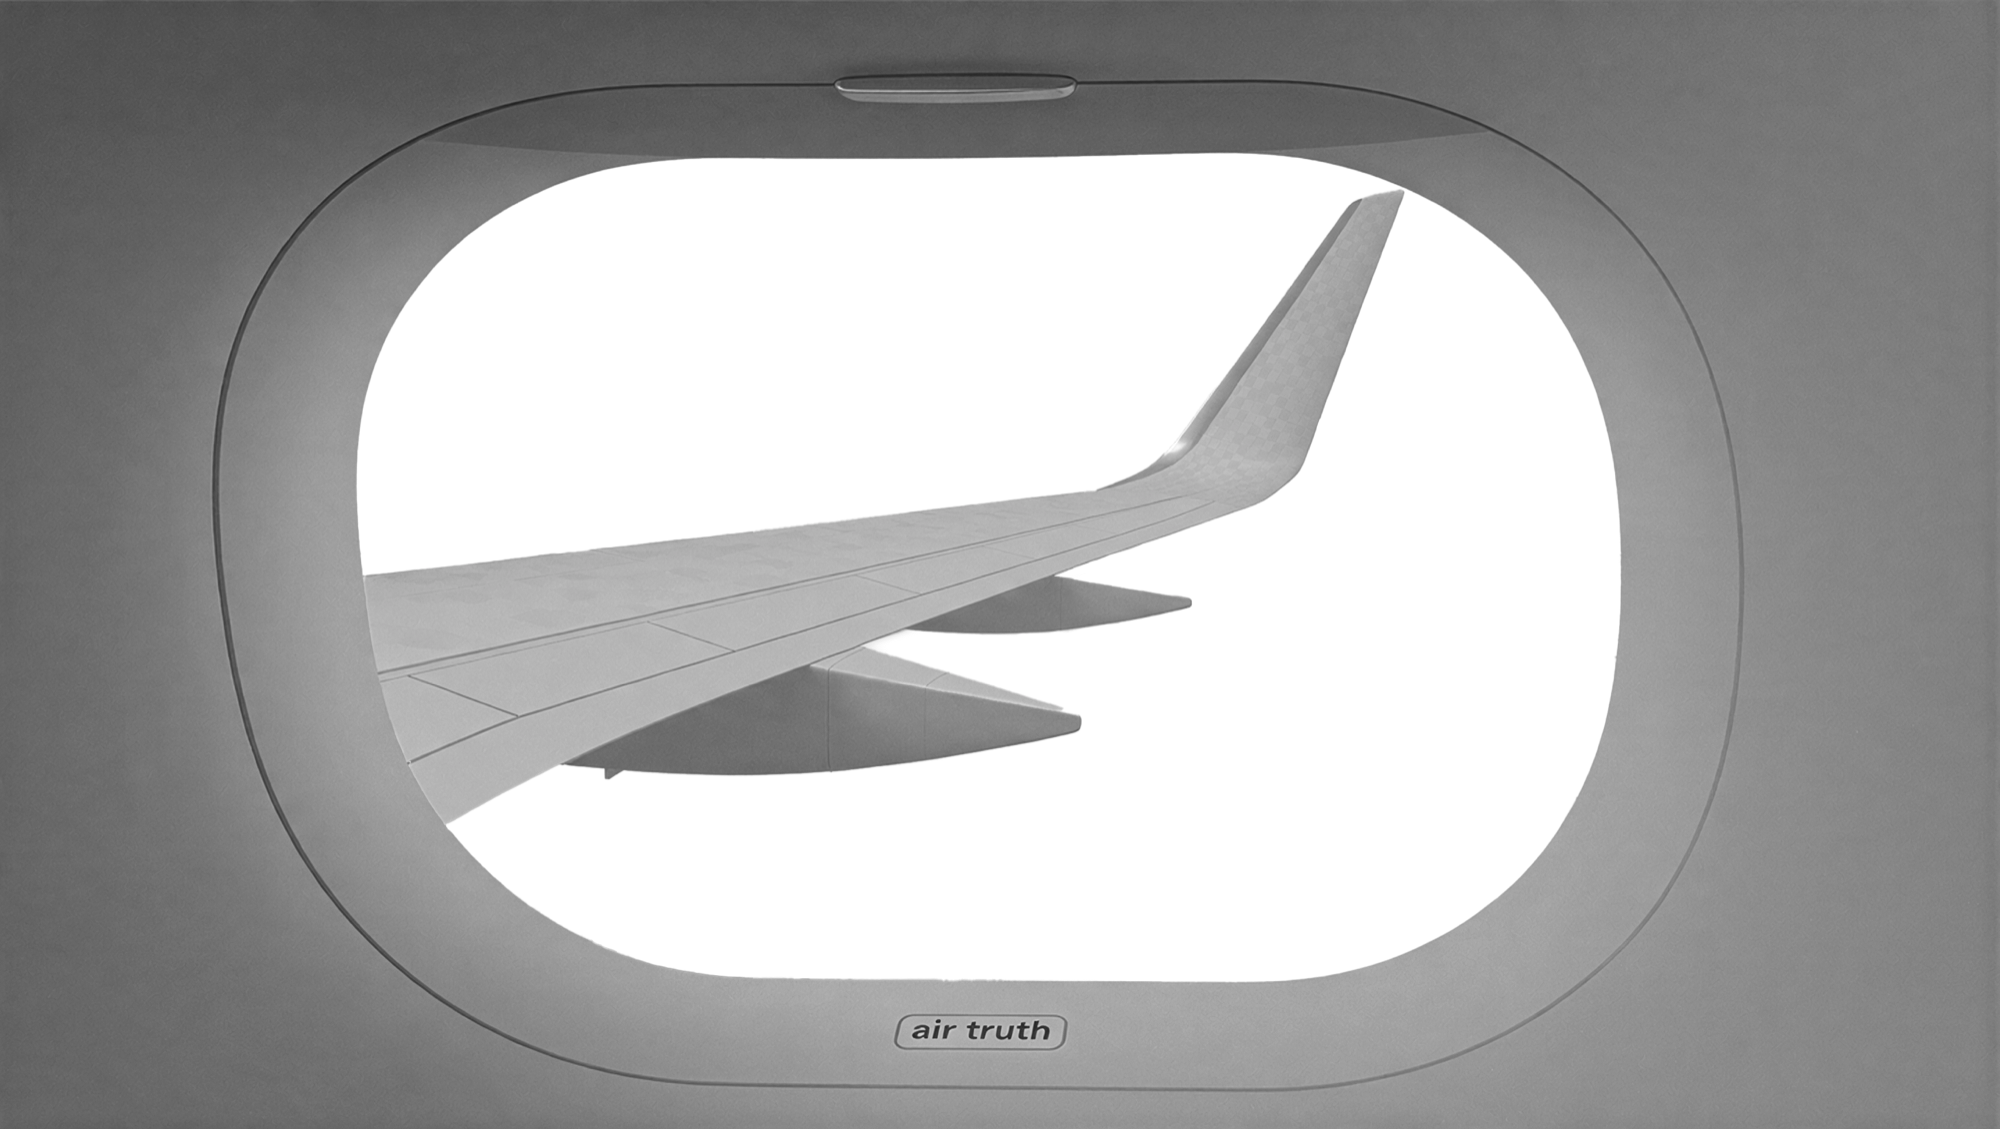
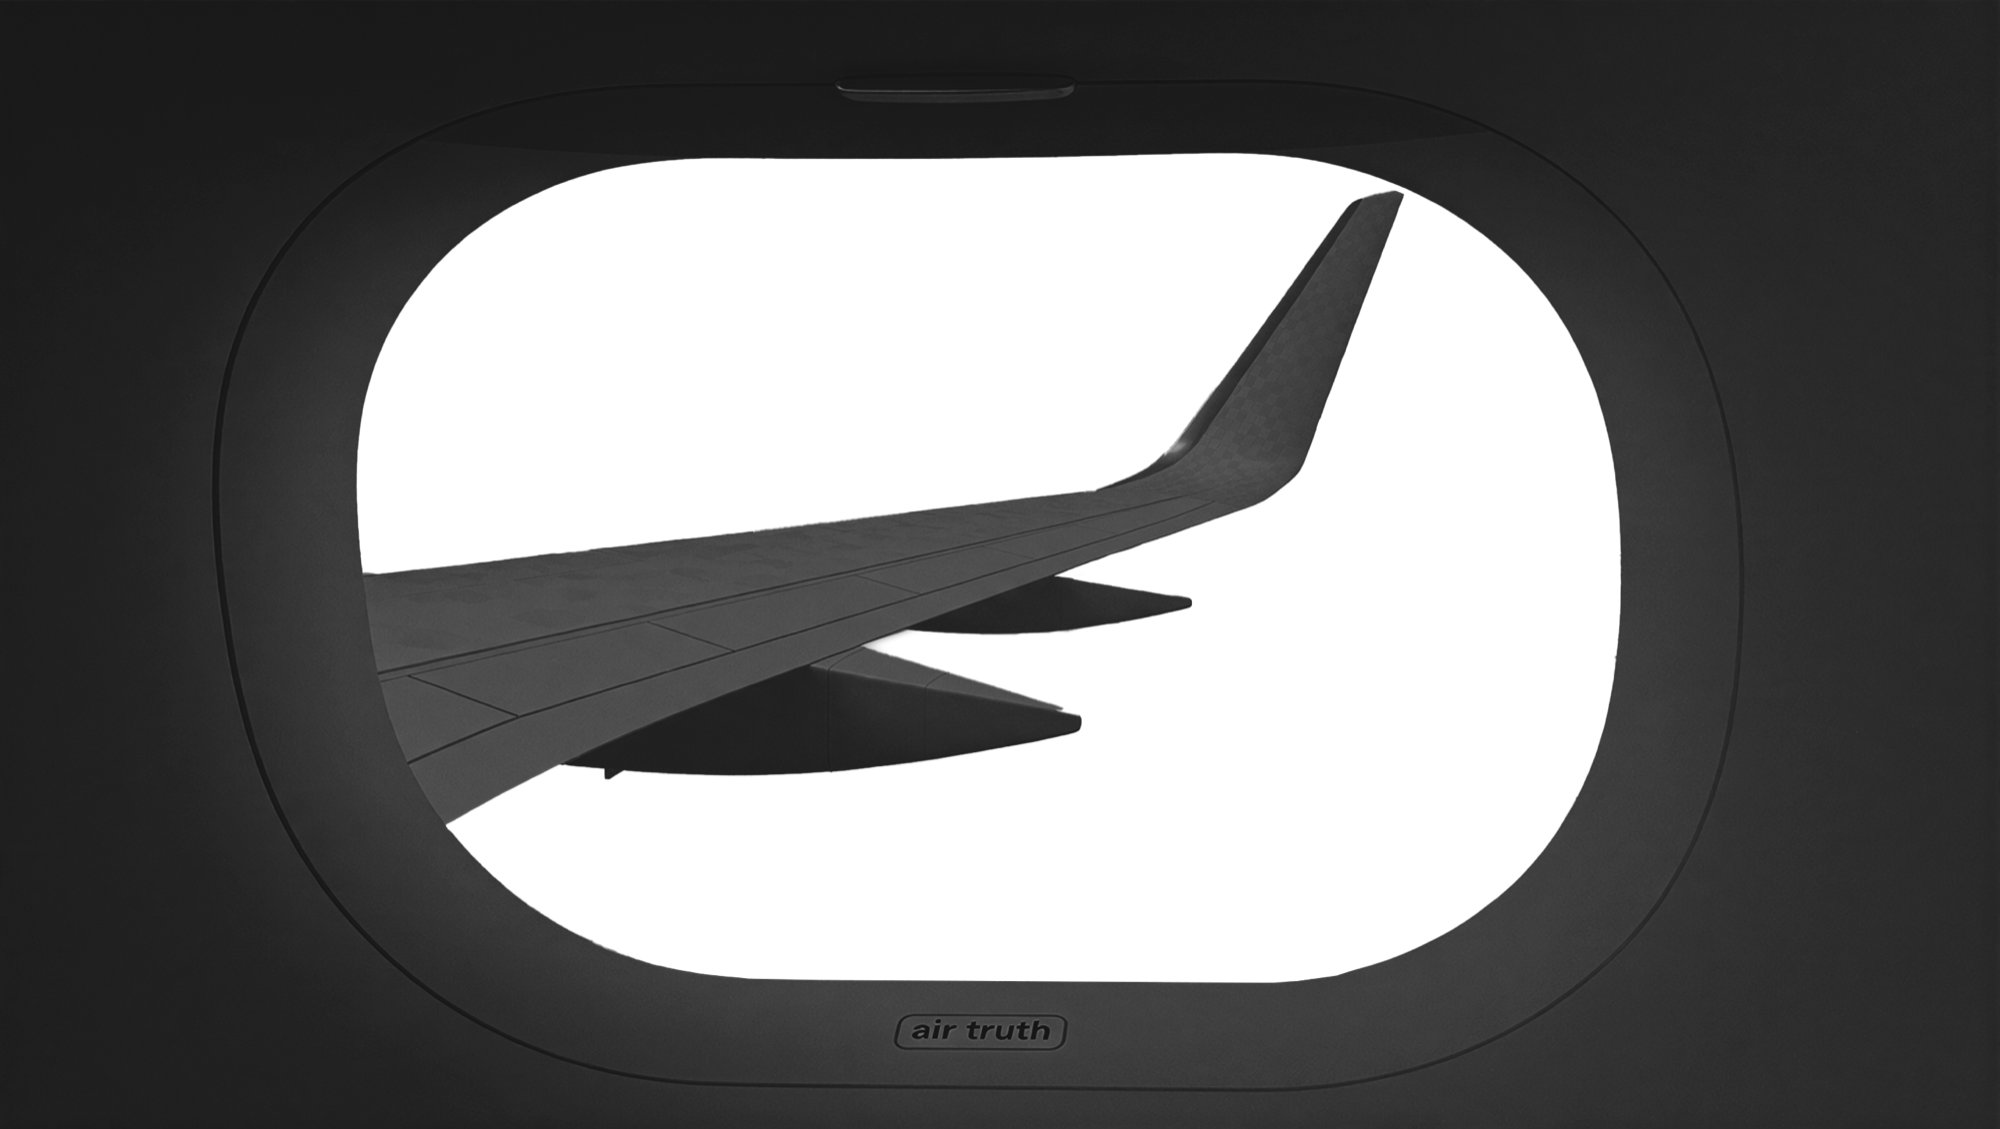
radio: fly at night, and land on a random track
The cabin image is swapped for the night render and the vector scene
recoloured to match. Its opening measures identical to the old one to four
decimals, so the geometry constants stand. Re-encoded with per-line optimal
filters: 2274 KB source down to 743 KB, byte-identical.

Straight recolouring did not hold up. The high wisps were white at .55 over
a pale sky — near invisible by day, but the same values over navy read as
solid blue slabs, so they drop to .32 of a dimmer blue. The cloud deck was
lit for daylight and glowed like water at night; it comes down to a moonlit
blue-grey that still sits above the sky value, keeping the day version's
tonal order. Stars are painted into #view's own background rather than
added as a layer: static, so one rasterisation and never a frame. Measured
after: 39.9 MB of textures, unchanged.

Track choice moves into the iframe URL. start_track is read before anything
loads, so a random pick is free, where skipping after READY re-cued the deck
and delayed the first note. The playlist length is not known up front, so
the widget is asked once playback is under way and the count kept for next
time — it turns out to be 239, against a standing guess of 10.

diff --git a/HTMLs/odile_radio.html b/HTMLs/odile_radio.html
@@ -8,7 +8,7 @@
   *, *::before, *::after { margin:0; padding:0; box-sizing:border-box; }
   html, body { width:100%; height:100%; overflow:hidden; }
   body {
-    background:#6b6b6d; cursor:none;
+    background:#0b0e14; cursor:none;
     font-family:-apple-system,'Helvetica Neue',sans-serif; font-weight:300; font-size:12.5px;
     animation:fadeIn 1.2s ease both;
   }
@@ -40,8 +40,21 @@
   #view{
     position:absolute;inset:0;
     overflow:hidden;
-    background:linear-gradient(180deg,
-      #fcfcfd 0%, #f3f3f7 30%, #e8e8ef 54%, #dcdce5 76%, #d0d0db 100%);
+    /* night: a handful of stars painted straight into the layer — they are
+       static, so they cost one rasterisation and never a frame */
+    background:
+      radial-gradient(1.3px 1.3px at 11% 8%,  rgba(255,255,255,.80), rgba(255,255,255,0) 100%),
+      radial-gradient(1px 1px     at 24% 19%, rgba(255,255,255,.45), rgba(255,255,255,0) 100%),
+      radial-gradient(1.1px 1.1px at 37% 6%,  rgba(255,255,255,.62), rgba(255,255,255,0) 100%),
+      radial-gradient(1px 1px     at 46% 24%, rgba(255,255,255,.34), rgba(255,255,255,0) 100%),
+      radial-gradient(1.4px 1.4px at 58% 12%, rgba(255,255,255,.72), rgba(255,255,255,0) 100%),
+      radial-gradient(1px 1px     at 67% 31%, rgba(255,255,255,.30), rgba(255,255,255,0) 100%),
+      radial-gradient(1.2px 1.2px at 78% 9%,  rgba(255,255,255,.58), rgba(255,255,255,0) 100%),
+      radial-gradient(1px 1px     at 88% 22%, rgba(255,255,255,.40), rgba(255,255,255,0) 100%),
+      radial-gradient(1.1px 1.1px at 16% 33%, rgba(255,255,255,.36), rgba(255,255,255,0) 100%),
+      radial-gradient(1px 1px     at 93% 38%, rgba(255,255,255,.26), rgba(255,255,255,0) 100%),
+      linear-gradient(180deg,
+        #05070f 0%, #070c18 25%, #0b1425 50%, #101c31 72%, #16253f 100%);
     will-change:transform;
   }
   .strip{
@@ -59,7 +72,7 @@
      than to #view, which may be cropped by a narrow screen. */
   #sRidge{animation:drift 210s linear infinite;opacity:.55;}
   #sDeck {animation:drift  84s linear infinite;}
-  #sNear {animation:drift  27s linear infinite;opacity:.55;}
+  #sNear {animation:drift  27s linear infinite;opacity:.32;}
 
   /* ── the cabin: image with a transparent window, laid over the view ── */
   picture{display:contents;}
@@ -98,11 +111,30 @@
 <script>window.addEventListener('pageshow',()=>{const o=document.getElementById('overlay');if(o)o.classList.remove('on');});</script>
 <div id="cur"></div>
 
-<!-- SoundCloud — invisible, autoplaying, no controls exposed -->
-<iframe id="sc-widget"
-  src="https://w.soundcloud.com/player/?url=https%3A//soundcloud.com/user-322526836/sets/heavens-gate&auto_play=true&hide_related=true&show_comments=false&show_user=false&show_reposts=false&show_teaser=false&visual=false"
-  style="position:absolute;top:-9999px;width:1px;height:1px;opacity:0;pointer-events:none;"
-  allow="autoplay" tabindex="-1" aria-hidden="true"></iframe>
+<!-- SoundCloud — invisible, autoplaying, no controls exposed.
+     The opening track is picked in the URL rather than by skipping once the
+     player is up: a skip re-cues the deck and that reload is what used to
+     hold back the first note. start_track is read before anything loads, so
+     a random pick costs nothing. -->
+<script>
+(function(){
+  const TRACKS_KEY = 'odile.radio.tracks';
+  let len = 10;                 /* until the widget tells us the real count */
+  try { const n = parseInt(localStorage.getItem(TRACKS_KEY), 10); if (n > 0) len = n; } catch(e){}
+  const f = document.createElement('iframe');
+  f.id = 'sc-widget';
+  f.src = 'https://w.soundcloud.com/player/?url=' +
+    encodeURIComponent('https://soundcloud.com/user-322526836/sets/heavens-gate') +
+    '&auto_play=true&start_track=' + Math.floor(Math.random() * len) +
+    '&hide_related=true&show_comments=false&show_user=false' +
+    '&show_reposts=false&show_teaser=false&visual=false';
+  f.allow = 'autoplay';
+  f.tabIndex = -1;
+  f.setAttribute('aria-hidden', 'true');
+  f.style.cssText = 'position:absolute;top:-9999px;width:1px;height:1px;opacity:0;pointer-events:none;';
+  document.currentScript.parentNode.insertBefore(f, document.currentScript);
+})();
+</script>
 
 <div id="scene">
   <div id="view">
@@ -110,7 +142,7 @@
     <!-- distant ridge -->
     <div class="strip" id="sRidge">
       <svg viewBox="0 0 2400 200" preserveAspectRatio="none">
-        <g id="ridge" fill="#a9a9b6">
+        <g id="ridge" fill="#0a1221">
           <polygon points="0,140 85,96 165,130 275,60 360,118 455,88 570,134 690,70 795,124 900,100 1020,138 1115,108 1200,140 1200,200 0,200"/>
         </g>
         <use href="#ridge" x="1200"/>
@@ -121,8 +153,8 @@
     <div class="strip" id="sDeck">
       <svg viewBox="0 0 2400 300" preserveAspectRatio="none">
         <g id="deck">
-          <polygon fill="#e2e2ea" points="0,120 90,98 175,126 300,72 395,104 470,88 590,130 700,96 810,120 900,76 1010,112 1105,94 1200,120 1200,300 0,300"/>
-          <polygon fill="#ffffff" points="0,172 110,150 205,178 320,138 430,166 545,142 660,180 775,152 880,176 985,146 1100,170 1200,172 1200,300 0,300"/>
+          <polygon fill="#1c2c48" points="0,120 90,98 175,126 300,72 395,104 470,88 590,130 700,96 810,120 900,76 1010,112 1105,94 1200,120 1200,300 0,300"/>
+          <polygon fill="#2a3f63" points="0,172 110,150 205,178 320,138 430,166 545,142 660,180 775,152 880,176 985,146 1100,170 1200,172 1200,300 0,300"/>
         </g>
         <use href="#deck" x="1200"/>
       </svg>
@@ -131,7 +163,7 @@
     <!-- near wisps streaking past the glass -->
     <div class="strip" id="sNear">
       <svg viewBox="0 0 2400 260" preserveAspectRatio="none">
-        <g id="near" fill="#ffffff">
+        <g id="near" fill="#33456a">
           <polygon points="30,150 240,118 420,140 260,164"/>
           <polygon points="560,70 780,46 900,68 700,92"/>
           <polygon points="950,190 1150,164 1190,178 1030,206"/>
@@ -327,6 +359,13 @@ function fadeIn(){
 widget.bind(SC.Widget.Events.READY, () => {
   widget.setVolume(0);
   startPlayback();
+  /* learn how long the playlist really is so the next visit can draw from
+     all of it — asked once playback is under way, so it costs nothing */
+  widget.getSounds(list => {
+    if (list && list.length) {
+      try { localStorage.setItem('odile.radio.tracks', list.length); } catch(e){}
+    }
+  });
 });
 widget.bind(SC.Widget.Events.PLAY,   () => { started = true; fadeIn(); });
 widget.bind(SC.Widget.Events.FINISH, () => { widget.next(); setTimeout(startPlayback, 200); });
